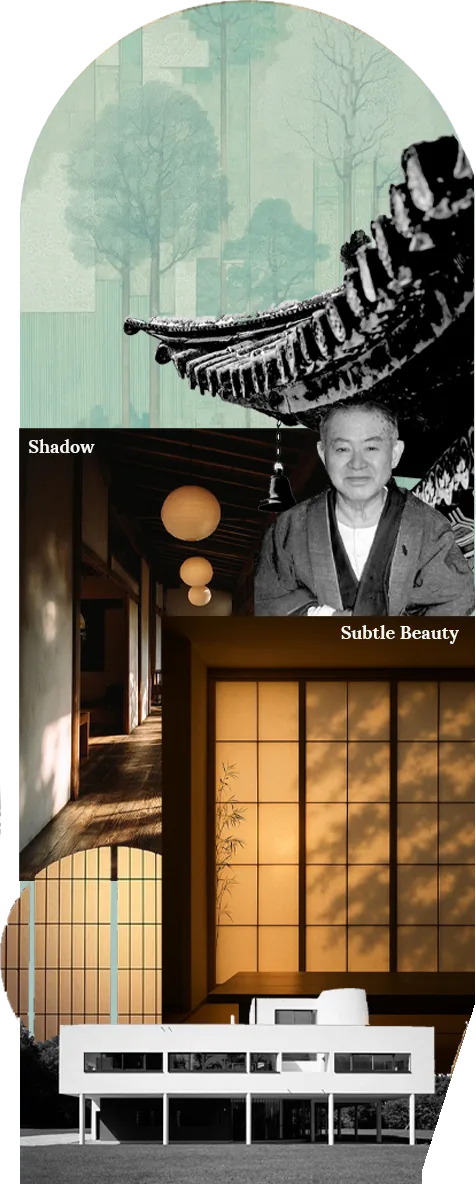
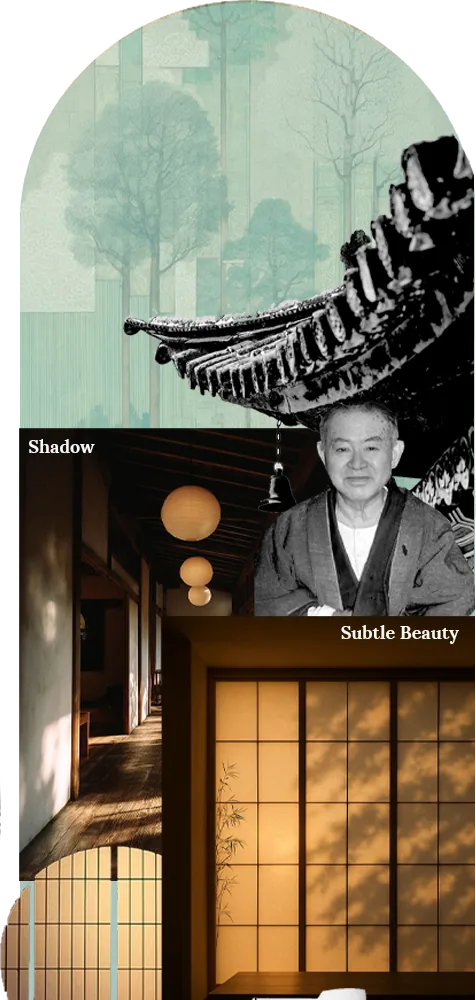
act 2: typos + paragraph move

diff --git a/src/components/ephemeral/Act1.tsx b/src/components/ephemeral/Act1.tsx
@@ -83,147 +83,147 @@ export default function Act1({ id }: { id: string }) {
 
   return (
     <section id={id} aria-labelledby={`${id}-title`}>
-        <div>
-          <StaticFrame focus={stops[0].center} scale={stops[0].scale} ratio={MAP_RATIO} alt={home.mapAlt} />
-          <Card id="ocean" seed={101} gap="first">
-            <p className={body}>{ocean.text}</p>
-          </Card>
-        </div>
+      <div>
+        <StaticFrame focus={stops[0].center} scale={stops[0].scale} ratio={MAP_RATIO} alt={home.mapAlt} />
+        <Card id="ocean" seed={101} gap="first">
+          <p className={body}>{ocean.text}</p>
+        </Card>
+      </div>
 
-        <div data-act-leg>
-          <StaticFrame focus={stops[1].center} scale={stops[1].scale} ratio={MAP_RATIO} alt={strait.frameAlt} />
-          <Card id="strait-of-malacca" seed={102} left gap="move">
-            <h3 className={`${heading} text-[clamp(1.35rem,2vw,1.9rem)] leading-tight`}>{strait.title}</h3>
-            <p className={`${body} mt-3`}>{strait.text}</p>
-            <div className="mt-5">
-              <Figure image={strait.image} sizes="(max-width: 768px) 90vw, 30vw" />
-            </div>
-          </Card>
-        </div>
-
-        <div>
-          <div data-act-leg>
-            <StaticFrame focus={stops[2].focus} scale={stops[2].scale} ratio={0.9} alt={people.frameAlt} />
-            <Card id="the-people" seed={103} gap="move">
-              <h3 className={`${heading} text-[clamp(1.35rem,2vw,1.9rem)] leading-tight`}>{people.title}</h3>
-              <p className="mt-1 font-body text-ink-green italic">{people.subtitle}</p>
-              <p className={`${body} mt-3`}>{people.text}</p>
-              <h4 className={`${heading} mt-6 text-[clamp(1rem,1.25vw,1.2rem)]`}>{people.dwellingTitle}</h4>
-              <div className="mt-3 grid grid-cols-[1.82fr_0.84fr] gap-2">
-                {people.huts.map((hut) => (
-                  <Figure key={hut.name} image={hut} sizes="(max-width: 768px) 60vw, 20vw" />
-                ))}
-              </div>
-            </Card>
+      <div data-act-leg>
+        <StaticFrame focus={stops[1].center} scale={stops[1].scale} ratio={MAP_RATIO} alt={strait.frameAlt} />
+        <Card id="strait-of-malacca" seed={102} left gap="move">
+          <h3 className={`${heading} text-[clamp(1.35rem,2vw,1.9rem)] leading-tight`}>{strait.title}</h3>
+          <p className={`${body} mt-3`}>{strait.text}</p>
+          <div className="mt-5">
+            <Figure image={strait.image} sizes="(max-width: 768px) 90vw, 30vw" />
           </div>
+        </Card>
+      </div>
 
-          <Card id="proposal" seed={104} wide>
-            <h3 className={`${heading} text-[clamp(1.35rem,2vw,1.9rem)] leading-tight`}>{proposal.title}</h3>
-            <div className="mt-5 grid grid-cols-1 gap-6 md:grid-cols-[minmax(0,1fr)_minmax(0,2fr)]">
-              <Figure image={proposal.map} sizes="(max-width: 768px) 90vw, 24vw" />
-              <div>
-                <h4 className={`${heading} text-[clamp(1rem,1.25vw,1.2rem)]`}>{proposal.scaleTitle}</h4>
-                <StaggerIn>
-                  <dl className="mt-3 grid grid-cols-2 gap-x-5 gap-y-4">
-                    {proposal.scale.map((item) => (
-                      <div key={item.value} data-stagger>
-                        <dd className={`${heading} text-[clamp(1.4rem,2.2vw,2.1rem)] leading-none`}>{item.value}</dd>
-                        <dt className="mt-1 font-body text-sm text-ink-green">{item.label}</dt>
-                      </div>
-                    ))}
-                  </dl>
-                  <p data-stagger className="mt-6 font-body text-ink-green">
-                    {proposal.populationFrom} <span aria-hidden="true">→</span>{" "}
-                    <span className="sr-only">to </span>
-                    {proposal.populationTo}
-                  </p>
-                  <ul className="mt-3 grid grid-cols-3 gap-3">
-                    {proposal.population.map((group) => (
-                      <li key={group.label} data-stagger>
-                        <p className={`${heading} text-[clamp(1.05rem,1.5vw,1.4rem)] leading-none`}>{group.value}</p>
-                        <p className="mt-1 font-body text-sm leading-tight text-ink-green">{group.label}</p>
-                        <p className="font-body text-xs leading-tight text-ink-green/80">{group.note}</p>
-                      </li>
-                    ))}
-                  </ul>
-                </StaggerIn>
-              </div>
-            </div>
-            <ul className="mt-7 grid gap-5 sm:grid-cols-2 lg:grid-cols-4">
-              {proposal.projects.map((project) => {
-                const icon = images[project.icon];
-                return (
-                  <li key={project.title}>
-                    <Image src={icon.src} alt="" width={icon.width} height={icon.height} sizes="80px" className="h-14 w-auto mix-blend-multiply" />
-                    <ColumnTitle>{project.title}</ColumnTitle>
-                    {project.text.map((line) => (
-                      <p key={line} className="mt-2 font-body text-sm leading-snug text-ink-green">
-                        {line}
-                      </p>
-                    ))}
-                  </li>
-                );
-              })}
-            </ul>
-            <p className="mt-3 font-ui text-[11px] text-ink-green/70">{proposal.iconsCredit}</p>
-          </Card>
-
-          <Card id="at-stake" seed={105} wide>
-            <div className="grid gap-7 md:grid-cols-2 lg:grid-cols-4">
-              {stake.map((column) => (
-                <div key={column.title}>
-                  <ColumnTitle>{column.title}</ColumnTitle>
-                  <p className="mt-2 font-body text-sm leading-relaxed text-ink-green">{column.text}</p>
-                  <div className={`mt-3 grid gap-2 ${column.images.length > 1 ? "grid-cols-2" : ""}`}>
-                    {column.images.map((image) => (
-                      <Figure key={image.name} image={image} sizes="(max-width: 768px) 45vw, 15vw" />
-                    ))}
-                  </div>
-                  {column.source && <p className="mt-2 font-ui text-[11px] leading-snug text-ink-green/70">{column.source}</p>}
-                </div>
+      <div>
+        <div data-act-leg>
+          <StaticFrame focus={stops[2].focus} scale={stops[2].scale} ratio={0.9} alt={people.frameAlt} />
+          <Card id="the-people" seed={103} gap="move">
+            <h3 className={`${heading} text-[clamp(1.35rem,2vw,1.9rem)] leading-tight`}>{people.title}</h3>
+            <p className="mt-1 font-body text-ink-green italic">{people.subtitle}</p>
+            <p className={`${body} mt-3`}>{people.text}</p>
+            <h4 className={`${heading} mt-6 text-[clamp(1rem,1.25vw,1.2rem)]`}>{people.dwellingTitle}</h4>
+            <div className="mt-3 grid grid-cols-[1.82fr_0.84fr] gap-2">
+              {people.huts.map((hut) => (
+                <Figure key={hut.name} image={hut} sizes="(max-width: 768px) 60vw, 20vw" />
               ))}
             </div>
           </Card>
+        </div>
 
-          <Card id="lessons" seed={106} wide>
-            <h3 className={`${heading} text-[clamp(1.35rem,2vw,1.9rem)] leading-tight`}>{lessons.title}</h3>
-            <p className={`${body} mt-3 max-w-[64ch]`}>{lessons.text}</p>
-            <div className="mt-5 grid grid-cols-1 gap-6 md:grid-cols-[minmax(0,3fr)_minmax(0,2fr)]">
-              <StaggerIn step={0.06}>
-                <div className="overflow-x-auto">
-                  <table className="w-full min-w-[26rem] border-collapse text-left font-body text-[13px] text-ink-green tabular-nums">
-                    <caption className="sr-only">{lessons.tableCaption}</caption>
-                    <thead>
-                      <tr className="border-b-2 border-ink-green/60 font-ui text-[10px] tracking-wide uppercase">
-                        {lessons.tableHead.map((column) => (
-                          <th key={column} scope="col" className="pr-2 pb-1.5 align-bottom font-bold">
-                            {column}
-                          </th>
+        <Card id="proposal" seed={104} wide>
+          <h3 className={`${heading} text-[clamp(1.35rem,2vw,1.9rem)] leading-tight`}>{proposal.title}</h3>
+          <div className="mt-5 grid grid-cols-1 gap-6 md:grid-cols-[minmax(0,1fr)_minmax(0,2fr)]">
+            <Figure image={proposal.map} sizes="(max-width: 768px) 90vw, 24vw" />
+            <div>
+              <h4 className={`${heading} text-[clamp(1rem,1.25vw,1.2rem)]`}>{proposal.scaleTitle}</h4>
+              <StaggerIn>
+                <dl className="mt-3 grid grid-cols-2 gap-x-5 gap-y-4">
+                  {proposal.scale.map((item) => (
+                    <div key={item.value} data-stagger>
+                      <dd className={`${heading} text-[clamp(1.4rem,2.2vw,2.1rem)] leading-none`}>{item.value}</dd>
+                      <dt className="mt-1 font-body text-sm text-ink-green">{item.label}</dt>
+                    </div>
+                  ))}
+                </dl>
+                <p data-stagger className="mt-6 font-body text-ink-green">
+                  {proposal.populationFrom} <span aria-hidden="true">→</span>{" "}
+                  <span className="sr-only">to </span>
+                  {proposal.populationTo}
+                </p>
+                <ul className="mt-3 grid grid-cols-3 gap-3">
+                  {proposal.population.map((group) => (
+                    <li key={group.label} data-stagger>
+                      <p className={`${heading} text-[clamp(1.05rem,1.5vw,1.4rem)] leading-none`}>{group.value}</p>
+                      <p className="mt-1 font-body text-sm leading-tight text-ink-green">{group.label}</p>
+                      <p className="font-body text-xs leading-tight text-ink-green/80">{group.note}</p>
+                    </li>
+                  ))}
+                </ul>
+              </StaggerIn>
+            </div>
+          </div>
+          <ul className="mt-7 grid gap-5 sm:grid-cols-2 lg:grid-cols-4">
+            {proposal.projects.map((project) => {
+              const icon = images[project.icon];
+              return (
+                <li key={project.title}>
+                  <Image src={icon.src} alt="" width={icon.width} height={icon.height} sizes="80px" className="h-14 w-auto mix-blend-multiply" />
+                  <ColumnTitle>{project.title}</ColumnTitle>
+                  {project.text.map((line) => (
+                    <p key={line} className="mt-2 font-body text-sm leading-snug text-ink-green">
+                      {line}
+                    </p>
+                  ))}
+                </li>
+              );
+            })}
+          </ul>
+          <p className="mt-3 font-ui text-[11px] text-ink-green/70">{proposal.iconsCredit}</p>
+        </Card>
+
+        <Card id="at-stake" seed={105} wide>
+          <div className="grid gap-7 md:grid-cols-2 lg:grid-cols-4">
+            {stake.map((column) => (
+              <div key={column.title}>
+                <ColumnTitle>{column.title}</ColumnTitle>
+                <p className="mt-2 font-body text-sm leading-relaxed text-ink-green">{column.text}</p>
+                <div className={`mt-3 grid gap-2 ${column.images.length > 1 ? "grid-cols-2" : ""}`}>
+                  {column.images.map((image) => (
+                    <Figure key={image.name} image={image} sizes="(max-width: 768px) 45vw, 15vw" />
+                  ))}
+                </div>
+                {column.source && <p className="mt-2 font-ui text-[11px] leading-snug text-ink-green/70">{column.source}</p>}
+              </div>
+            ))}
+          </div>
+        </Card>
+
+        <Card id="lessons" seed={106} wide>
+          <h3 className={`${heading} text-[clamp(1.35rem,2vw,1.9rem)] leading-tight`}>{lessons.title}</h3>
+          <p className={`${body} mt-3 max-w-[64ch]`}>{lessons.text}</p>
+          <div className="mt-5 grid grid-cols-1 gap-6 md:grid-cols-[minmax(0,3fr)_minmax(0,2fr)]">
+            <StaggerIn step={0.06}>
+              <div className="overflow-x-auto">
+                <table className="w-full min-w-[26rem] border-collapse text-left font-body text-[13px] text-ink-green tabular-nums">
+                  <caption className="sr-only">{lessons.tableCaption}</caption>
+                  <thead>
+                    <tr className="border-b-2 border-ink-green/60 font-ui text-[10px] tracking-wide uppercase">
+                      {lessons.tableHead.map((column) => (
+                        <th key={column} scope="col" className="pr-2 pb-1.5 align-bottom font-bold">
+                          {column}
+                        </th>
+                      ))}
+                    </tr>
+                  </thead>
+                  <tbody>
+                    {lessons.tableRows.map(([year, ...cells]) => (
+                      <tr key={year} data-stagger className="border-b border-ink-green/20">
+                        <th scope="row" className="py-1 pr-2 font-semibold">
+                          {year}
+                        </th>
+                        {cells.map((cell, i) => (
+                          <td key={i} className="py-1 pr-2">
+                            {cell}
+                          </td>
                         ))}
                       </tr>
-                    </thead>
-                    <tbody>
-                      {lessons.tableRows.map(([year, ...cells]) => (
-                        <tr key={year} data-stagger className="border-b border-ink-green/20">
-                          <th scope="row" className="py-1 pr-2 font-semibold">
-                            {year}
-                          </th>
-                          {cells.map((cell, i) => (
-                            <td key={i} className="py-1 pr-2">
-                              {cell}
-                            </td>
-                          ))}
-                        </tr>
-                      ))}
-                    </tbody>
-                  </table>
-                </div>
-                <p className="mt-2 font-ui text-[11px] text-ink-green/70">{lessons.tableCredit}</p>
-              </StaggerIn>
-              <Figure image={lessons.maps} sizes="(max-width: 768px) 90vw, 24vw" />
-            </div>
-          </Card>
-        </div>
+                    ))}
+                  </tbody>
+                </table>
+              </div>
+              <p className="mt-2 font-ui text-[11px] text-ink-green/70">{lessons.tableCredit}</p>
+            </StaggerIn>
+            <Figure image={lessons.maps} sizes="(max-width: 768px) 90vw, 24vw" />
+          </div>
+        </Card>
+      </div>
     </section>
   );
 }

diff --git a/src/content/ephemeral-ground.ts b/src/content/ephemeral-ground.ts
@@ -199,9 +199,6 @@ export const act2 = {
   // PSD
   definition:
     "Slowness in design is not inactivity, but intentional architecture that values people, place and time over speed and quantity. Through human-scaled spaces, shared courtyards and shaded transitions, architecture encourages pause, interaction and meaningful everyday experiences.",
-  // PSD
-  island:
-    "Island development must balance ecological limits, biodiversity, tourism and local livelihoods through slow, context-sensitive design that protects nature and strengthens resilient communities.",
   walker: { name: "idea/walker", alt: "A lone figure walking, leaving a line of footprints." } satisfies EgImage,
   tree: { name: "idea/lone-tree", alt: "A single tree standing on its own." } satisfies EgImage,
   philosophersTitle: "PHILOSOPHICAL PERSPECTIVES",
@@ -225,7 +222,7 @@ export const act2 = {
       ],
     },
     {
-      name: "Jun'ichirō Tanizaki",
+      name: "Jun’ichirō Tanizaki",
       image: { name: "idea/arch-tanizaki", alt: "Arched collage of a portrait of Tanizaki, a temple roof, paper lanterns and shoji screens at dusk.", credit: TO_CONFIRM },
       caption: [
         { text: "In praise of shadows,", bold: true },
@@ -251,7 +248,7 @@ export const act2 = {
     },
     {
       title: "Sensory Balance",
-      text: "Balanced sensory elements foster comfort and emotional regulation",
+      text: "Balanced sensory elements foster comfort and emotional regulation.",
       image: { name: "idea/neuro-sensory", alt: "Collage of a calm sheltered terrace.", credit: TO_CONFIRM },
     },
     {

diff --git a/src/content/ephemeral-ground.images.ts b/src/content/ephemeral-ground.images.ts
@@ -92,7 +92,7 @@ export const images = {
   "idea/render-housing": { src: "/images/ephemeral-ground/idea/render-housing.webp", width: 1340, height: 740 },
   "idea/arch-rosa": { src: "/images/ephemeral-ground/idea/arch-rosa.webp", width: 520, height: 1190 },
   "idea/arch-pallasmaa": { src: "/images/ephemeral-ground/idea/arch-pallasmaa.webp", width: 470, height: 1190 },
-  "idea/arch-tanizaki": { src: "/images/ephemeral-ground/idea/arch-tanizaki.webp", width: 476, height: 1190 },
+  "idea/arch-tanizaki": { src: "/images/ephemeral-ground/idea/arch-tanizaki.webp", width: 476, height: 1000 },
   "idea/arch-zumthor": { src: "/images/ephemeral-ground/idea/arch-zumthor.webp", width: 527, height: 1265 },
   "idea/render-water": { src: "/images/ephemeral-ground/idea/render-water.webp", width: 1072, height: 598 },
   "idea/render-library": { src: "/images/ephemeral-ground/idea/render-library.webp", width: 1072, height: 598 },

diff --git a/src/components/ephemeral/Act2.tsx b/src/components/ephemeral/Act2.tsx
@@ -55,14 +55,9 @@ export default function Act2({ id, label }: { id: string; label: string }) {
             {act2.question}
           </h2>
         </div>
-        <div className="mx-auto max-w-[44rem] space-y-6">
-          <LineReveal className={bodyText} {...SLOW}>
-            {act2.definition}
-          </LineReveal>
-          <LineReveal className={bodyText} {...SLOW}>
-            {act2.island}
-          </LineReveal>
-        </div>
+        <LineReveal className={`mx-auto max-w-[44rem] ${bodyText}`} {...SLOW}>
+          {act2.definition}
+        </LineReveal>
         <div data-motif-flow className="relative mx-auto mt-14 mb-10 h-44 max-w-2xl overflow-x-clip md:motion-safe:hidden">
           <SlownessMotif />
         </div>

diff --git a/scripts/extract-ephemeral-assets.py b/scripts/extract-ephemeral-assets.py
@@ -152,12 +152,12 @@ LAYERS = {
 }
 
 # The four arches are one layer. name: (crop, areas to clear, as polygons in the layer's pixels).
-# Her leaf overlaps arches 3 and 4, so each loses the other's piece along the leaf's edge.
+# Her leaf overlaps arches 3 and 4: Tanizaki stops above it, and Zumthor loses Tanizaki's piece beside it.
 ARCHES_LAYER = 1629
 ARCHES = {
     "idea/arch-rosa": ((0, 0, 520, 1190), []),
     "idea/arch-pallasmaa": ((530, 0, 1000, 1190), []),
-    "idea/arch-tanizaki": ((1002, 0, 1478, 1190), [[(1478, 1000), (1424, 1170), (1424, 1190), (1478, 1190)]]),
+    "idea/arch-tanizaki": ((1002, 0, 1478, 1000), []),
     "idea/arch-zumthor": ((1430, 0, 1957, 1265), [[(1430, 0), (1479, 0), (1479, 1030), (1437, 1172), (1430, 1172)]]),
 }
 

diff --git a/Claude.MD b/Claude.MD
@@ -19,7 +19,7 @@ not a page-flipper.
   list only): "innnovation" → "innovation", "consious" → "conscious", "PLANING" → "PLANNING",
   "permanant" → "permanent", "Mangroove" → "Mangrove", "Spactial" → "Spatial",
   "Settelers" → "Settlers", "Strait of malacca" → "Strait of Malacca", "166sq.km" → "166 sq.km",
-  "Bio-diversity" → "Biodiversity".
+  "Bio-diversity" → "Biodiversity", "Jun'ichirō" → "Jun’ichirō".
 
 ## Stack
 
